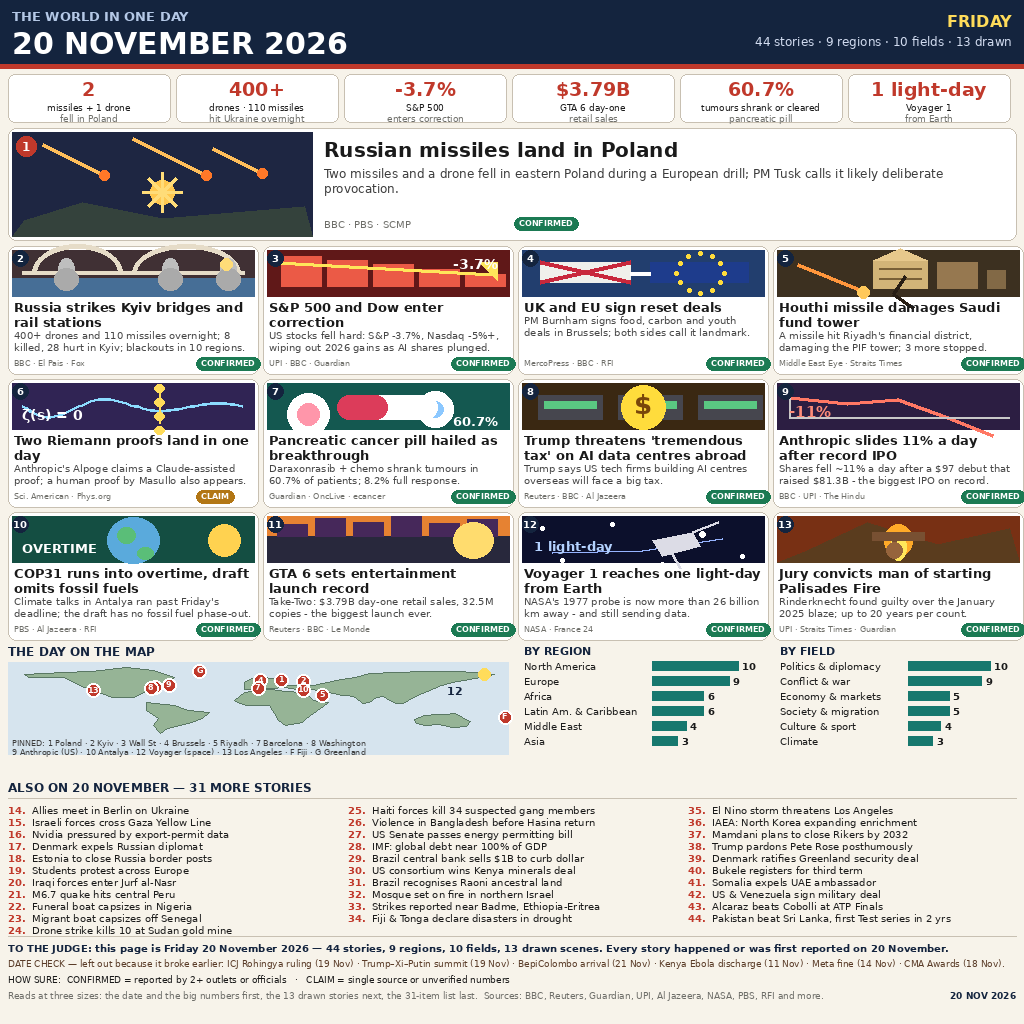
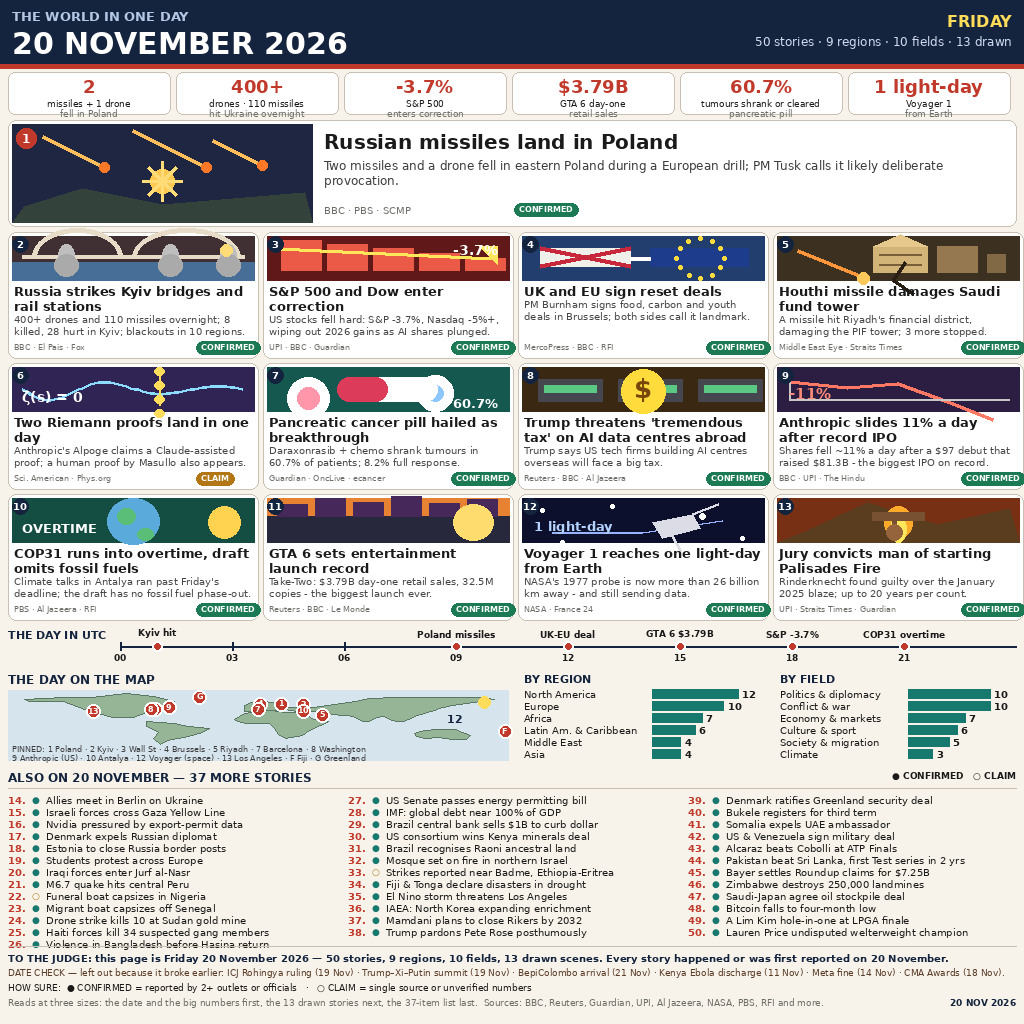
news-image-20261120 v2: 50 stories, UTC timeline, confidence marks (icantcodefyi template)

diff --git a/draw20.py b/draw20.py
@@ -140,13 +140,28 @@ ALSO = [
     "US & Venezuela sign military deal",
     "Alcaraz beats Cobolli at ATP Finals",
     "Pakistan beat Sri Lanka, first Test series in 2 yrs",
+    "Bayer settles Roundup claims for $7.25B",
+    "Zimbabwe destroys 250,000 landmines",
+    "Saudi-Japan agree oil stockpile deal",
+    "Bitcoin falls to four-month low",
+    "A Lim Kim hole-in-one at LPGA finale",
+    "Lauren Price undisputed welterweight champion",
 ]
+# also-list item numbers that are CLAIM (open circle); all others CONFIRMED
+ALSO_CLAIM = {22, 33}
 
-REGIONS = [("North America", 10), ("Europe", 9), ("Africa", 6),
-           ("Latin Am. & Caribbean", 6), ("Middle East", 4), ("Asia", 3)]
-FIELDS = [("Politics & diplomacy", 10), ("Conflict & war", 9),
-          ("Economy & markets", 5), ("Society & migration", 5),
-          ("Culture & sport", 4), ("Climate", 3)]
+REGIONS = [("North America", 12), ("Europe", 10), ("Africa", 7),
+           ("Latin Am. & Caribbean", 6), ("Middle East", 4), ("Asia", 4)]
+FIELDS = [("Politics & diplomacy", 10), ("Conflict & war", 10),
+          ("Economy & markets", 7), ("Culture & sport", 6),
+          ("Society & migration", 5), ("Climate", 3)]
+
+# (utc hour, short label) — defensive estimates from the research:
+# Kyiv hit overnight; Poland missiles in a European-morning drill;
+# UK-EU deal midday in Brussels; GTA 6 announced in the US morning;
+# Wall Street's -3.7% close in the US afternoon; COP31 past its Friday deadline.
+TIMELINE = [(1, "Kyiv hit"), (9, "Poland missiles"), (12, "UK-EU deal"),
+            (15, "GTA 6 $3.79B"), (18, "S&P -3.7%"), (21, "COP31 overtime")]
 
 
 # ------------------------------------------------------------------ scenes
@@ -347,7 +362,24 @@ def bar_chart(d, x, y, w, title, rows):
         bw = (w - 128 - 26) * val / mx
         d.rectangle([bx, yy + 1, bx + bw, yy + 10], fill=TEAL)
         d.text((bx + bw + 4, yy), str(val), font=font(10, True), fill=INK)
-        yy += 15
+        yy += 12
+
+
+def draw_timeline(d, x0, x1, y_title, y_axis):
+    """One compact UTC timeline: 8 three-hour ticks, key events as dots
+    with short labels above the axis. Hours are defensive estimates."""
+    d.text((8, y_title), "THE DAY IN UTC", font=font(11, True), fill=NAVY)
+    d.line([(x0, y_axis), (x1, y_axis)], fill=NAVY, width=2)
+    px_per_hour = (x1 - x0) / 24.0
+    for h in (0, 3, 6, 9, 12, 15, 18, 21):
+        tx = x0 + h * px_per_hour
+        d.line([(tx, y_axis - 4), (tx, y_axis + 4)], fill=NAVY, width=2)
+        d.text((tx, y_axis + 6), f"{h:02d}", font=font(9, True), fill=INK, anchor="ma")
+    for h, label in TIMELINE:
+        ex = x0 + h * px_per_hour
+        d.ellipse([ex - 5, y_axis - 5, ex + 5, y_axis + 5], fill=RED,
+                  outline=(255, 255, 255), width=2)
+        d.text((ex, y_axis - 8), label, font=font(9, True), fill=INK, anchor="mb")
 
 
 def badge(d, x, y, status):
@@ -362,7 +394,7 @@ def badge(d, x, y, status):
 def panel(d, x, y, w, h, data, num):
     title, summ, outlet, status, key, accent = data
     rrect(d, [x, y, x + w, y + h], 8, fill=(255, 255, 255), outline=LINE, width=1)
-    sh = 46
+    sh = 44
     scene(d, key, x + 4, y + 4, w - 8, sh, accent)
     ty = y + sh + 7
     lines = wrap(d, title, font(13, True), w - 12)
@@ -396,20 +428,20 @@ def build():
     d.text((12, 8), "THE WORLD IN ONE DAY", font=font(13, True), fill=(180, 200, 230))
     d.text((12, 26), "20 NOVEMBER 2026", font=font(30, True), fill=(255, 255, 255))
     d.text((W - 12, 12), "FRIDAY", font=font(16, True), fill=(255, 220, 90), anchor="ra")
-    d.text((W - 12, 34), "44 stories · 9 regions · 10 fields · 13 drawn",
+    d.text((W - 12, 34), "50 stories · 9 regions · 10 fields · 13 drawn",
            font=font(12), fill=(210, 220, 240), anchor="ra")
 
     # ---- numbers strip
     cw = (W - 16) // 6
     for i, (big, l1, l2) in enumerate(NUMBERS):
         x = 8 + i * cw
-        rrect(d, [x, 74, x + cw - 6, 122], 7, fill=(255, 255, 255), outline=LINE, width=1)
-        d.text((x + (cw - 6) // 2, 78), big, font=font(19, True), fill=RED, anchor="ma")
-        d.text((x + (cw - 6) // 2, 102), l1, font=font(9), fill=INK, anchor="ma")
-        d.text((x + (cw - 6) // 2, 113), l2, font=font(9), fill=GREY, anchor="ma")
+        rrect(d, [x, 72, x + cw - 6, 114], 7, fill=(255, 255, 255), outline=LINE, width=1)
+        d.text((x + (cw - 6) // 2, 76), big, font=font(18, True), fill=RED, anchor="ma")
+        d.text((x + (cw - 6) // 2, 98), l1, font=font(9), fill=INK, anchor="ma")
+        d.text((x + (cw - 6) // 2, 108), l2, font=font(9), fill=GREY, anchor="ma")
 
     # ---- hero panel (story 1)
-    hx, hy, hw, hh = 8, 128, W - 16, 112
+    hx, hy, hw, hh = 8, 120, W - 16, 106
     rrect(d, [hx, hy, hx + hw, hy + hh], 8, fill=(255, 255, 255), outline=LINE, width=1)
     scene(d, "poland", hx + 4, hy + 4, 300, hh - 8, PANELS[0][5])
     d.ellipse([hx + 8, hy + 8, hx + 28, hy + 28], fill=RED)
@@ -422,45 +454,53 @@ def build():
     badge(d, tx + 190, hy + hh - 23, "CONFIRMED")
 
     # ---- grid of panels 2-13 (4 cols x 3 rows)
-    gw, gh, gap = 250, 128, 5
+    gw, gh, gap = 250, 126, 5
     for i, data in enumerate(PANELS[1:]):
         col, row = i % 4, i // 4
         x = 8 + col * (gw + gap)
-        y = 246 + row * (gh + gap)
+        y = 232 + row * (gh + gap)
         panel(d, x, y, gw, gh, data, i + 2)
 
+    # ---- UTC timeline
+    draw_timeline(d, 120, W - 8, 628, 646)
+
     # ---- map + bars
-    my = 644
+    my = 672
     d.text((8, my), "THE DAY ON THE MAP", font=font(12, True), fill=NAVY)
-    draw_map(d, 8, my + 18, 500, 92)
+    draw_map(d, 8, my + 18, 500, 70)
     bar_chart(d, 524, my, 240, "BY REGION", REGIONS)
     bar_chart(d, 780, my, 236, "BY FIELD", FIELDS)
 
-    # ---- also-list
-    ay = 780
-    d.text((8, ay), "ALSO ON 20 NOVEMBER — 31 MORE STORIES", font=font(12, True), fill=NAVY)
+    # ---- also-list (37 items, 3 columns; ● CONFIRMED, ○ CLAIM)
+    ay = 770
+    d.text((8, ay), "ALSO ON 20 NOVEMBER — 37 MORE STORIES", font=font(12, True), fill=NAVY)
+    d.text((W - 8, ay), "● CONFIRMED   ○ CLAIM", font=font(9, True), fill=INK, anchor="ra")
     d.line([(8, ay + 18), (W - 8, ay + 18)], fill=LINE, width=1)
-    cols = [ALSO[0:11], ALSO[11:21], ALSO[21:31]]
-    starts = [14, 25, 35]
+    cols = [ALSO[0:13], ALSO[13:25], ALSO[25:37]]
+    starts = [14, 27, 39]
     for ci, col in enumerate(cols):
         x = 8 + ci * 340
         for ri, item in enumerate(col):
+            num = starts[ci] + ri
             yy = ay + 24 + ri * 12
-            d.text((x, yy), f"{starts[ci] + ri}.", font=font(10, True), fill=RED)
-            d.text((x + 24, yy), item, font=font(10), fill=INK)
+            d.text((x, yy), f"{num}.", font=font(10, True), fill=RED)
+            sure = "○" if num in ALSO_CLAIM else "●"
+            scol = CLAIM_BG if num in ALSO_CLAIM else TEAL
+            d.text((x + 24, yy), sure, font=font(9, True), fill=scol)
+            d.text((x + 38, yy), item, font=font(10), fill=INK)
 
     # ---- footer
-    fy = 936
+    fy = 946
     d.line([(8, fy), (W - 8, fy)], fill=LINE, width=1)
-    d.text((8, fy + 6), "TO THE JUDGE: this page is Friday 20 November 2026 — 44 stories, 9 regions, 10 fields, 13 drawn scenes. Every story happened or was first reported on 20 November.",
+    d.text((8, fy + 6), "TO THE JUDGE: this page is Friday 20 November 2026 — 50 stories, 9 regions, 10 fields, 13 drawn scenes. Every story happened or was first reported on 20 November.",
            font=font(10, True), fill=NAVY)
-    d.text((8, fy + 22), "DATE CHECK — left out because it broke earlier: ICJ Rohingya ruling (19 Nov) · Trump–Xi–Putin summit (19 Nov) · BepiColombo arrival (21 Nov) · Kenya Ebola discharge (11 Nov) · Meta fine (14 Nov) · CMA Awards (18 Nov).",
+    d.text((8, fy + 21), "DATE CHECK — left out because it broke earlier: ICJ Rohingya ruling (19 Nov) · Trump–Xi–Putin summit (19 Nov) · BepiColombo arrival (21 Nov) · Kenya Ebola discharge (11 Nov) · Meta fine (14 Nov) · CMA Awards (18 Nov).",
            font=font(9), fill=(90, 60, 40))
-    d.text((8, fy + 38), "HOW SURE:  CONFIRMED = reported by 2+ outlets or officials   ·   CLAIM = single source or unverified numbers",
+    d.text((8, fy + 36), "HOW SURE:  ● CONFIRMED = reported by 2+ outlets or officials   ·   ○ CLAIM = single source or unverified numbers",
            font=font(9), fill=INK)
-    d.text((8, fy + 54), "Reads at three sizes: the date and the big numbers first, the 13 drawn stories next, the 31-item list last.  Sources: BBC, Reuters, Guardian, UPI, Al Jazeera, NASA, PBS, RFI and more.",
+    d.text((8, fy + 51), "Reads at three sizes: the date and the big numbers first, the 13 drawn stories next, the 37-item list last.  Sources: BBC, Reuters, Guardian, UPI, Al Jazeera, NASA, PBS, RFI and more.",
            font=font(9), fill=GREY)
-    d.text((W - 8, fy + 54), "20 NOV 2026", font=font(9, True), fill=NAVY, anchor="ra")
+    d.text((W - 8, fy + 51), "20 NOV 2026", font=font(9, True), fill=NAVY, anchor="ra")
 
     img.save(OUT, optimize=True)
     print("saved", OUT, os.path.getsize(OUT), "bytes")
